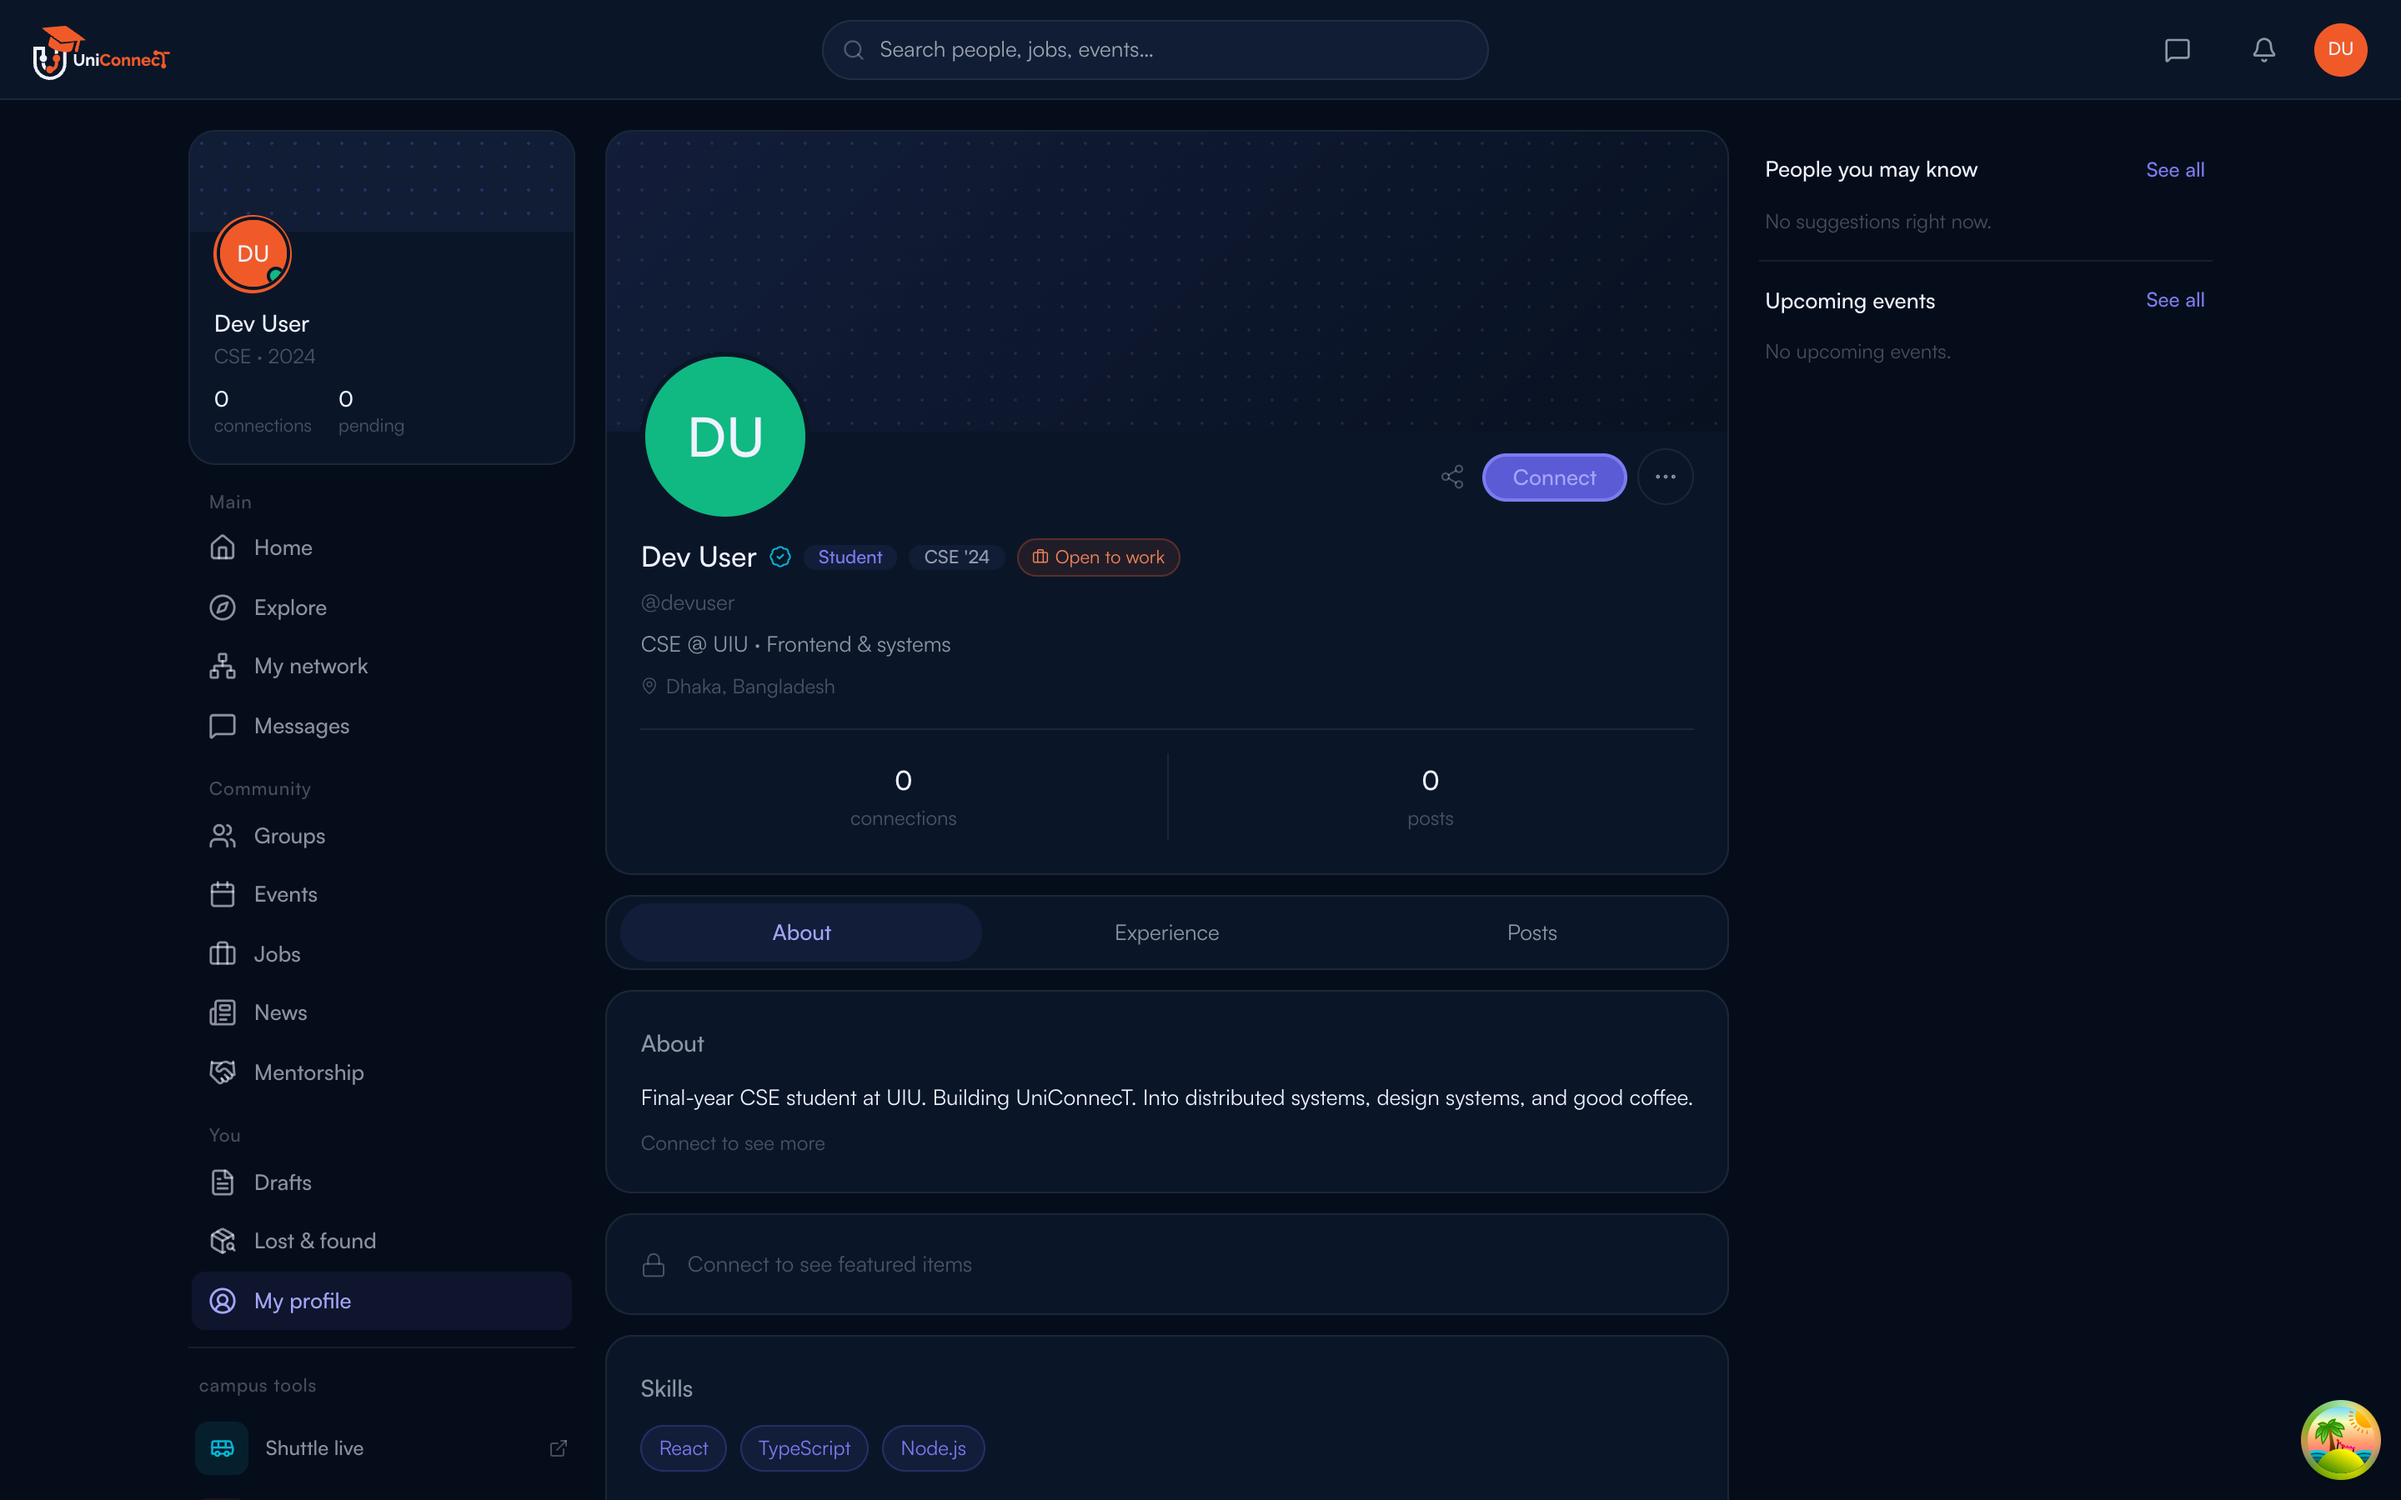
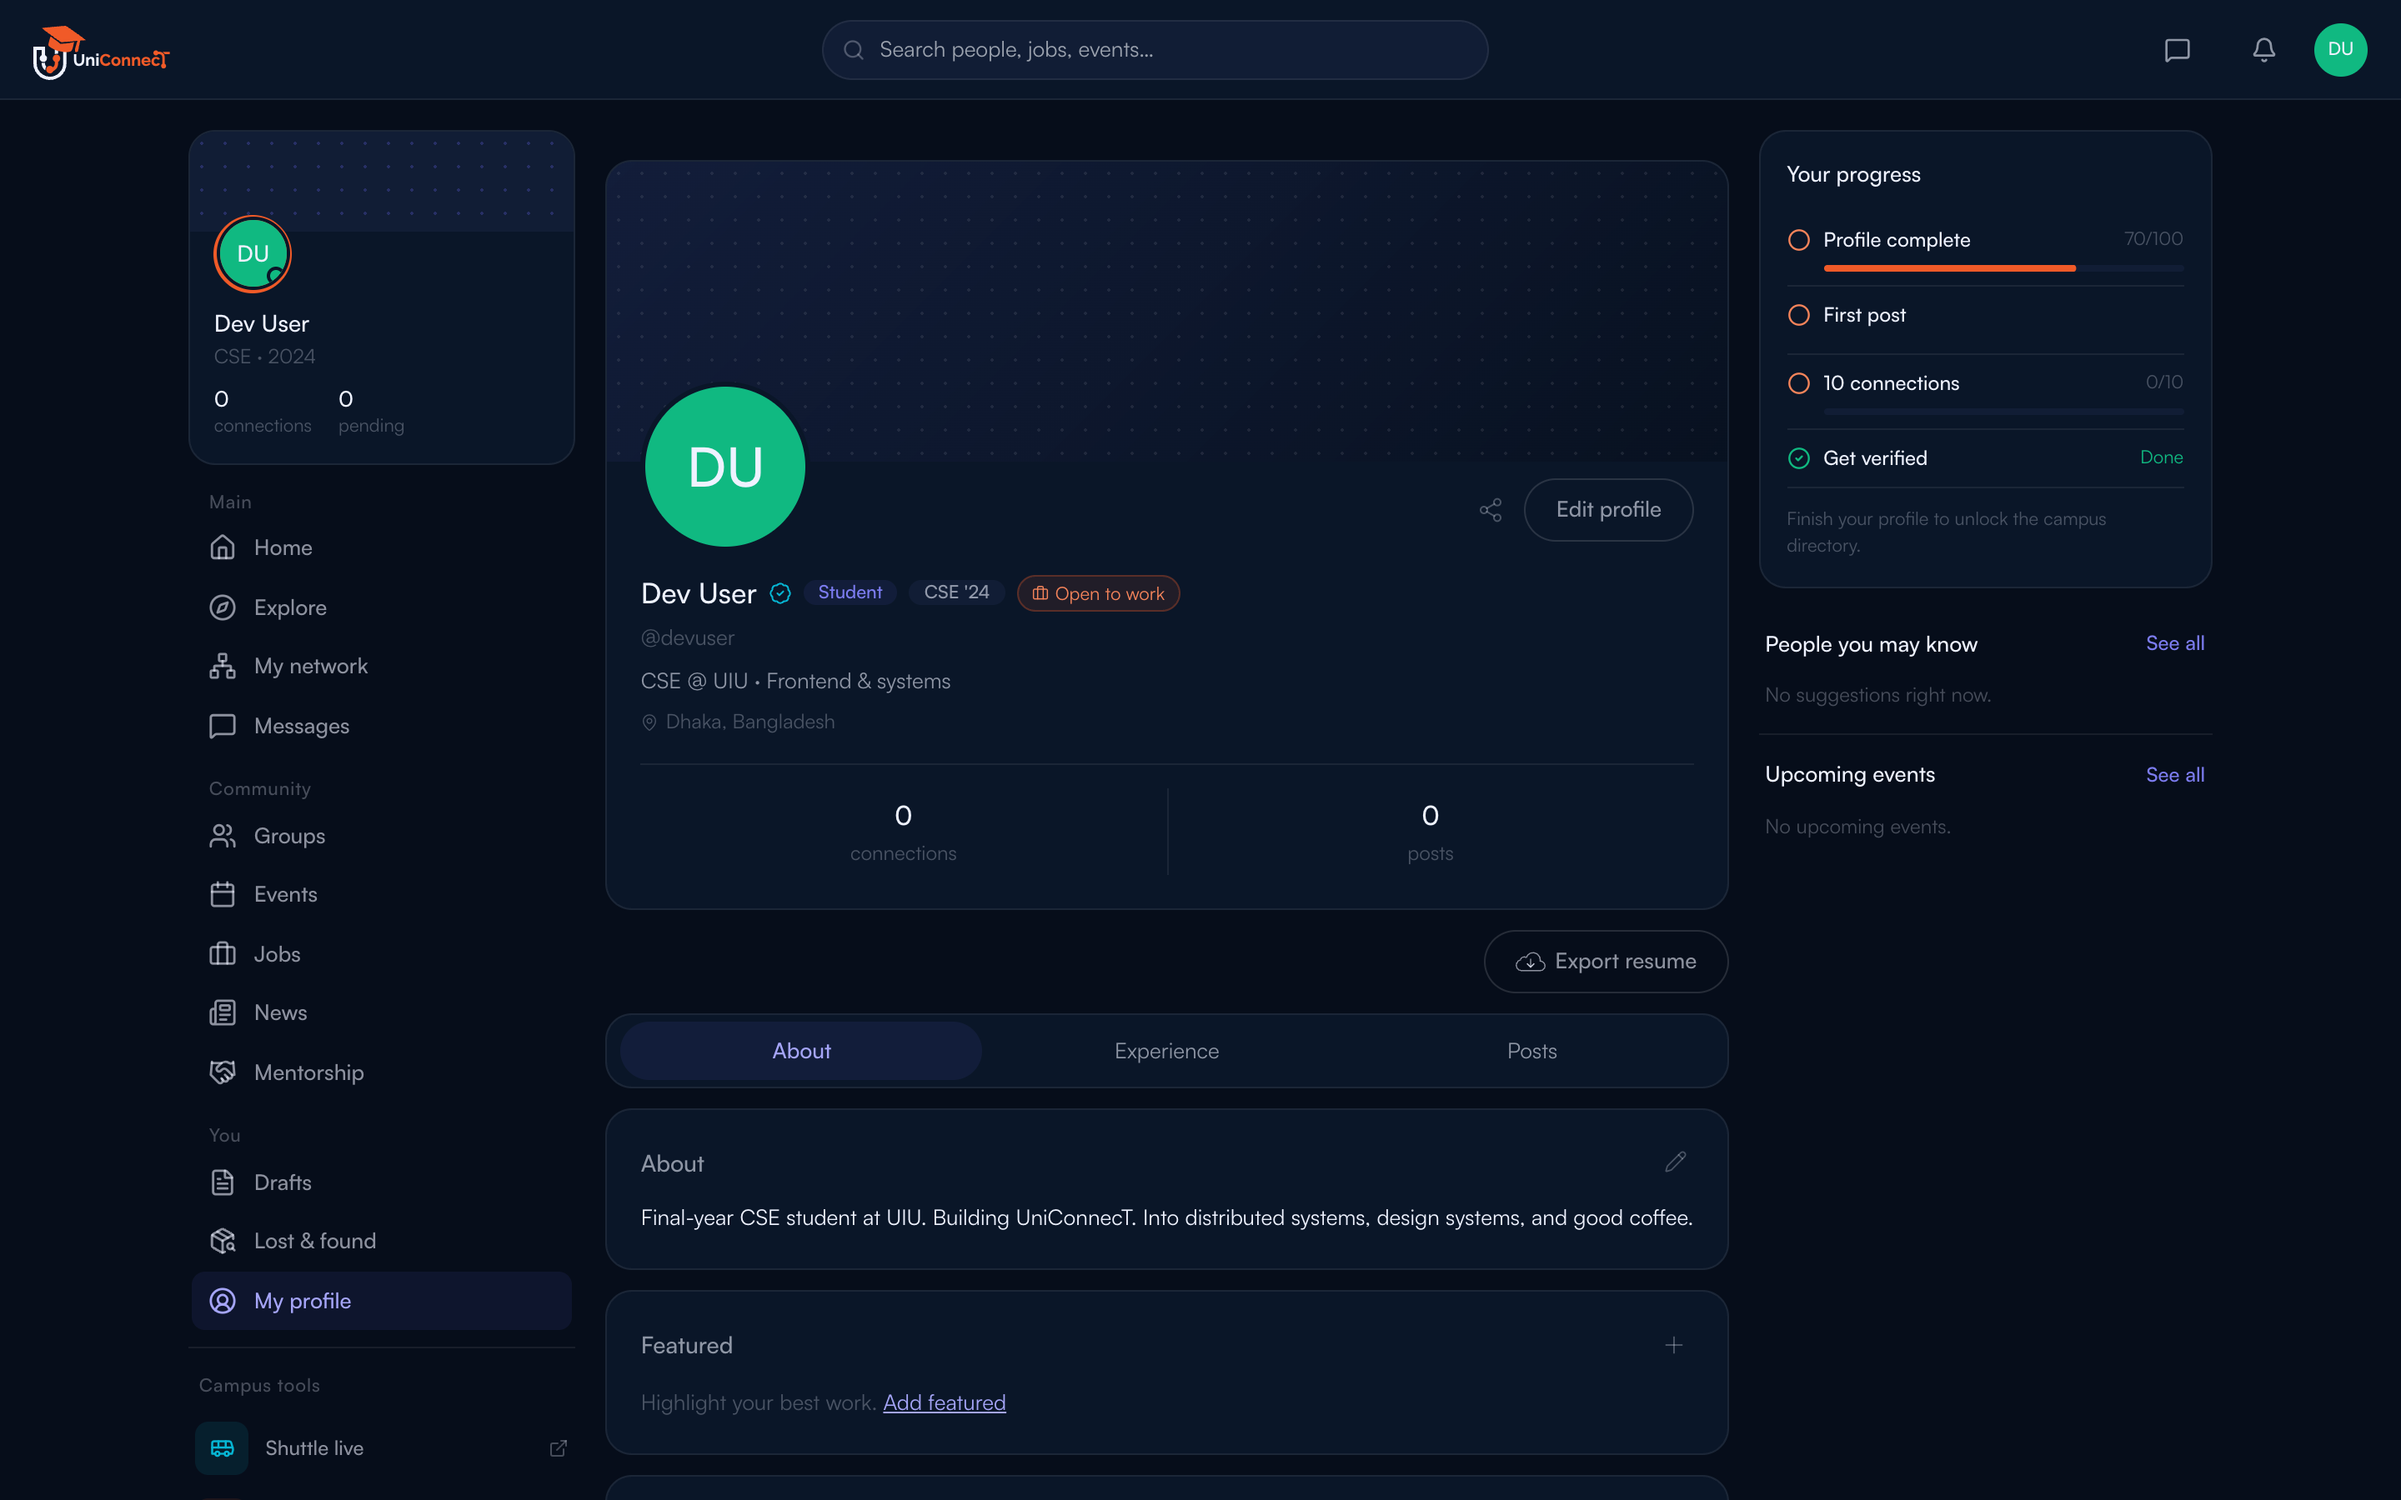
fix(web): correct own-profile detection in dev screenshots, refresh captures
Aligns the dev-auth mock user id (AuthLoader), the devMocks profile id, and
screenshot.cjs's DEV_USER_ID so isOwnProfile evaluates true on the profile
screenshot instead of always rendering as a stranger's view (Connect button,
gated featured/about sections). Also fills in devMocks' analytics/progress
stub shapes (a follow-on crash surfaced once isOwnProfile flipped true), and
suppresses the ReactQueryDevtools floating toggle during screenshot capture
— that was the unexplained circular graphic bottom-right, not app source.

diff --git a/apps/web/src/lib/devMocks.ts b/apps/web/src/lib/devMocks.ts
@@ -14,6 +14,10 @@ import { api } from '@/lib/axios'
  */
 
 const DEV_PROFILE: PublicUserProfile & { visibility?: Record<string, unknown> } = {
+  // Must match AuthLoader's DEV_MOCK_USER.id (and screenshot.cjs's DEV_USER_ID)
+  // so `isOwnProfile` (authUser.id === user.id) is true on the profile screenshot —
+  // otherwise the page renders as if viewing a stranger (Connect button, gated sections).
+  // Kept as a real UUID because publicUserProfileSchema.id is `z.string().uuid()`.
   id: '11111111-1111-4111-8111-111111111111',
   username: 'devuser',
   email: 'dev@uiu.ac.bd',
@@ -54,8 +58,27 @@ const DEV_PROFILE: PublicUserProfile & { visibility?: Record<string, unknown> } 
 function resolveMockBody(url: string): unknown | null {
   if (/\/users\/by-username\/[^/]+$/.test(url)) return { data: DEV_PROFILE }
   if (/\/users\/me\/analytics$/.test(url))
-    return { data: { profileViews: { last7d: 18, last30d: 64, last90d: 142 }, postReach: { reactions: 23, comments: 7, total: 30 } } }
+    return {
+      data: {
+        profileViews: { last7d: 18, last30d: 64, last90d: 142 },
+        postReach: { reactions: 23, comments: 7, shares: 4, total: 34 },
+      },
+    }
   if (/\/users\/me\/viewers$/.test(url)) return { data: { items: [], total: 0, page: 1 } }
+  if (/\/users\/me\/progress$/.test(url))
+    return {
+      data: {
+        profileScore: 70,
+        hasMadePost: false,
+        connectionCount: 0,
+        isVerified: true,
+        hasAddedExperience: false,
+        hasAddedEducation: false,
+        hasAvatar: false,
+        hasBio: true,
+        hasHeadline: true,
+      },
+    }
   if (/\/users\/[^/]+\/experience$/.test(url)) return { data: [] }
   if (/\/users\/[^/]+\/education$/.test(url)) return { data: [] }
   if (/\/users\/[^/]+\/featured$/.test(url)) return { data: [] }

diff --git a/apps/web/src/main.tsx b/apps/web/src/main.tsx
@@ -10,7 +10,9 @@ import App from './App'
 
 // DEV-only: when running the design-verification flow (?dev-auth=1) without a
 // backend, stub the read endpoints so data pages render real UI for screenshots.
-if (import.meta.env.DEV && new URLSearchParams(window.location.search).get('dev-auth') === '1') {
+const isScreenshotMode =
+  import.meta.env.DEV && new URLSearchParams(window.location.search).get('dev-auth') === '1'
+if (isScreenshotMode) {
   const { installDevMocks } = await import('@/lib/devMocks')
   installDevMocks()
 }
@@ -22,7 +24,9 @@ createRoot(document.getElementById('root')!).render(
         <AuthLoader>
           <App />
         </AuthLoader>
-        {import.meta.env.DEV && <ReactQueryDevtools initialIsOpen={false} />}
+        {/* Suppressed in screenshot mode — its floating toggle button (bottom-right)
+            otherwise gets captured in design-verification screenshots. */}
+        {import.meta.env.DEV && !isScreenshotMode && <ReactQueryDevtools initialIsOpen={false} />}
       </QueryClientProvider>
     </RootErrorBoundary>
   </StrictMode>,

diff --git a/apps/web/src/components/AuthLoader.tsx b/apps/web/src/components/AuthLoader.tsx
@@ -12,12 +12,14 @@ interface MeResponse {
   data: User
 }
 
+// id/universityId must match devMocks.ts's DEV_PROFILE and screenshot.cjs's DEV_USER_ID —
+// ProfilePage computes `isOwnProfile` by comparing this id to the fetched profile's id.
 const DEV_MOCK_USER: User = {
-  id: 'dev-00000000-0000-0000-0000-000000000001',
+  id: '11111111-1111-4111-8111-111111111111',
   username: 'devuser',
   email: 'dev@uiu.ac.bd',
   role: 'student',
-  universityId: 'dev-00000000-0000-0000-0000-000000000002',
+  universityId: '22222222-2222-4222-8222-222222222222',
   isVerified: true,
   themePreference: 'dark',
   profile: {
